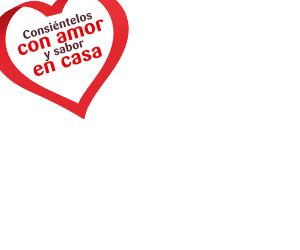
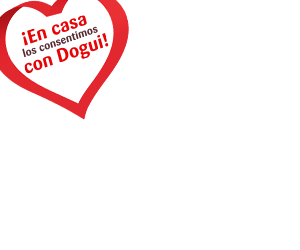
ok

Changed region(s): [[0.06, 0.056, 0.36, 0.308]]

diff --git a/Dogui/EnCASA/300x600/index.html b/Dogui/EnCASA/300x600/index.html
@@ -1,0 +1,37 @@
+<!DOCTYPE html>
[1 lines of base64/hex data omitted]
+  <meta charset="utf-8">
+  <meta name="viewport" content="width=device-width,minimum-scale=1">
+  <meta name="generator" content="Google Web Designer 8.0.0.0323">
+  <meta name="environment" content="gwd-googleads"><meta name="ad.size" content="width=300,height=600">
+  <script async="" src="https://cdn.ampproject.org/amp4ads-v0.js"></script>
+  <style amp4ads-boilerplate="">body{visibility:hidden}</style>
+  <style amp-custom="">html,body{width:100%;height:100%;margin:0px}p,h1,h2,h3{margin:0px}.gwd-page-container{position:relative;width:100%;height:100%}.gwd-page-content{background-color:transparent;transform:matrix3d(1, 0, 0, 0, 0, 1, 0, 0, 0, 0, 1, 0, 0, 0, 0, 1);-webkit-transform:matrix3d(1, 0, 0, 0, 0, 1, 0, 0, 0, 0, 1, 0, 0, 0, 0, 1);-moz-transform:matrix3d(1, 0, 0, 0, 0, 1, 0, 0, 0, 0, 1, 0, 0, 0, 0, 1);perspective:1400px;-webkit-perspective:1400px;-moz-perspective:1400px;transform-style:preserve-3d;-webkit-transform-style:preserve-3d;-moz-transform-style:preserve-3d;position:absolute}.gwd-page-container-wrapper{width:300px;height:600px}.gwd-page-wrapper{background-color:#fff;position:absolute;top:0px;left:0px;transform:translateZ(0);-webkit-transform:translateZ(0);-moz-transform:translateZ(0);width:300px;height:600px}.gwd-page-size{width:300px;height:600px}#pagedeck>.amp-carousel-button-prev,#pagedeck>.amp-carousel-button-next{display:none}.gwd-amp-img-p45y{position:absolute;width:300px;height:600px;left:50%;transform-style:preserve-3d;-webkit-transform-style:preserve-3d;-moz-transform-style:preserve-3d;top:50%;transform:translate3d(-150px, -300px, 0);-webkit-transform:translate3d(-150px, -300px, 0);-moz-transform:translate3d(-150px, -300px, 0);opacity:0}#page1.gwd-play-animation .gwd-gen-zoblgwdanimation{animation:.5s linear 0s 1 normal forwards gwd-gen-zoblgwdanimation_gwd-keyframes;-webkit-animation:.5s linear 0s 1 normal forwards gwd-gen-zoblgwdanimation_gwd-keyframes;-moz-animation:.5s linear 0s 1 normal forwards gwd-gen-zoblgwdanimation_gwd-keyframes}.gwd-amp-img-1geb{position:absolute;width:300px;height:600px;left:50%;transform-style:preserve-3d;-webkit-transform-style:preserve-3d;-moz-transform-style:preserve-3d;top:50%;transform-origin:0px 70px 0px;-webkit-transform-origin:0px 70px 0px;-moz-transform-origin:0px 70px 0px;transform:translate3d(-220px, -300px, 0) rotateZ(-67deg);-webkit-transform:translate3d(-220px, -300px, 0) rotateZ(-67deg);-moz-transform:translate3d(-220px, -300px, 0) rotateZ(-67deg);opacity:0}#page1.gwd-play-animation .gwd-gen-xf2jgwdanimation{animation:.8s linear 0s 1 normal forwards gwd-gen-xf2jgwdanimation_gwd-keyframes;-webkit-animation:.8s linear 0s 1 normal forwards gwd-gen-xf2jgwdanimation_gwd-keyframes;-moz-animation:.8s linear 0s 1 normal forwards gwd-gen-xf2jgwdanimation_gwd-keyframes}.gwd-amp-img-a3fp{position:absolute;width:300px;height:600px;top:50%;transform-style:preserve-3d;-webkit-transform-style:preserve-3d;-moz-transform-style:preserve-3d;left:50%;transform:translate3d(-150px, -210px, 0);-webkit-transform:translate3d(-150px, -210px, 0);-moz-transform:translate3d(-150px, -210px, 0);opacity:0}.gwd-amp-img-h5yt{position:absolute;width:300px;height:600px;top:50%;transform-style:preserve-3d;-webkit-transform-style:preserve-3d;-moz-transform-style:preserve-3d;left:50%;transform:translate3d(-60px, -300px, 0);-webkit-transform:translate3d(-60px, -300px, 0);-moz-transform:translate3d(-60px, -300px, 0);opacity:0}.gwd-amp-img-1nsm{position:absolute;width:300px;height:600px;top:50%;transform-style:preserve-3d;-webkit-transform-style:preserve-3d;-moz-transform-style:preserve-3d;left:50%;transform:translate3d(-260px, -300px, 0);-webkit-transform:translate3d(-260px, -300px, 0);-moz-transform:translate3d(-260px, -300px, 0);opacity:0}#page1.gwd-play-animation .gwd-gen-1amwgwdanimation{animation:1.5s linear 0s 1 normal forwards gwd-gen-1amwgwdanimation_gwd-keyframes;-webkit-animation:1.5s linear 0s 1 normal forwards gwd-gen-1amwgwdanimation_gwd-keyframes;-moz-animation:1.5s linear 0s 1 normal forwards gwd-gen-1amwgwdanimation_gwd-keyframes}#page1.gwd-play-animation .gwd-gen-fnz0gwdanimation{animation:1.4s linear 0s 1 normal forwards gwd-gen-fnz0gwdanimation_gwd-keyframes;-webkit-animation:1.4s linear 0s 1 normal forwards gwd-gen-fnz0gwdanimation_gwd-keyframes;-moz-animation:1.4s linear 0s 1 normal forwards gwd-gen-fnz0gwdanimation_gwd-keyframes}#page1.gwd-play-animation .gwd-gen-78hygwdanimation{animation:1.1s linear 0s 1 normal forwards gwd-gen-78hygwdanimation_gwd-keyframes;-webkit-animation:1.1s linear 0s 1 normal forwards gwd-gen-78hygwdanimation_gwd-keyframes;-moz-animation:1.1s linear 0s 1 normal forwards gwd-gen-78hygwdanimation_gwd-keyframes}#page1.label-1 .gwd-gen-zoblgwdanimation{animation:.5s linear 0s 1 normal forwards gwd-gen-zoblgwdanimation_gwd-keyframes_label-1;-webkit-animation:.5s linear 0s 1 normal forwards gwd-gen-zoblgwdanimation_gwd-keyframes_label-1;-moz-animation:.5s linear 0s 1 normal forwards gwd-gen-zoblgwdanimation_gwd-keyframes_label-1}#page1.label-1 .gwd-gen-xf2jgwdanimation{animation:.8s linear 0s 1 normal forwards gwd-gen-xf2jgwdanimation_gwd-keyframes_label-1;-webkit-animation:.8s linear 0s 1 normal forwards gwd-gen-xf2jgwdanimation_gwd-keyframes_label-1;-moz-animation:.8s linear 0s 1 normal forwards gwd-gen-xf2jgwdanimation_gwd-keyframes_label-1}#page1.label-1 .gwd-gen-78hygwdanimation{animation:1.1s linear 0s 1 normal forwards gwd-gen-78hygwdanimation_gwd-keyframes_label-1;-webkit-animation:1.1s linear 0s 1 normal forwards gwd-gen-78hygwdanimation_gwd-keyframes_label-1;-moz-animation:1.1s linear 0s 1 normal forwards gwd-gen-78hygwdanimation_gwd-keyframes_label-1}#page1.label-1 .gwd-gen-fnz0gwdanimation{animation:1.4s linear 0s 1 normal forwards gwd-gen-fnz0gwdanimation_gwd-keyframes_label-1;-webkit-animation:1.4s linear 0s 1 normal forwards gwd-gen-fnz0gwdanimation_gwd-keyframes_label-1;-moz-animation:1.4s linear 0s 1 normal forwards gwd-gen-fnz0gwdanimation_gwd-keyframes_label-1}#page1.label-1 .gwd-gen-1amwgwdanimation{animation:1.5s linear 0s 1 normal forwards gwd-gen-1amwgwdanimation_gwd-keyframes_label-1;-webkit-animation:1.5s linear 0s 1 normal forwards gwd-gen-1amwgwdanimation_gwd-keyframes_label-1;-moz-animation:1.5s linear 0s 1 normal forwards gwd-gen-1amwgwdanimation_gwd-keyframes_label-1}#page1.gwd-play-animation .event-1-animation{animation:6s linear 0s 1 normal forwards gwd-empty-animation;-webkit-animation:6s linear 0s 1 normal forwards gwd-empty-animation;-moz-animation:6s linear 0s 1 normal forwards gwd-empty-animation}#page1.label-1 .event-1-animation{animation:6s linear 0s 1 normal forwards gwd-empty-animation_label-1;-webkit-animation:6s linear 0s 1 normal forwards gwd-empty-animation_label-1;-moz-animation:6s linear 0s 1 normal forwards gwd-empty-animation_label-1}</style>
+  <script data-source="https://cdn.ampproject.org/v0/amp-gwd-animation-0.1.js" async="" custom-element="amp-gwd-animation" src="https://cdn.ampproject.org/v0/amp-gwd-animation-0.1.js"></script>
+  <script data-source="https://cdn.ampproject.org/v0/amp-ad-exit-0.1.js" async="" custom-element="amp-ad-exit" src="https://cdn.ampproject.org/v0/amp-ad-exit-0.1.js"></script>
+  <script data-source="https://cdn.ampproject.org/v0/amp-carousel-0.1.js" async="" custom-element="amp-carousel" src="https://cdn.ampproject.org/v0/amp-carousel-0.1.js"></script>
+</head>
+
+<body class="document-body">
+  <div class="gwd-page-container-wrapper">
+    <amp-carousel class="gwd-page-container" id="pagedeck" layout="fill" type="slides">
+      <div id="page1" class="gwd-page-wrapper page1-content" data-gwd-width="300px" data-gwd-height="600px" role="button" tabindex="-1">
+        <div class="gwd-page-content gwd-page-size">
+          <amp-img id="1" src="1.jpg" class="gwd-amp-img-p45y gwd-gen-zoblgwdanimation" width="300px" height="600px"></amp-img>
+          <amp-img id="2" src="2.png" class="gwd-amp-img-1geb gwd-gen-xf2jgwdanimation" width="300px" height="600px"></amp-img>
+          <amp-img id="3" src="3.png" class="gwd-amp-img-a3fp gwd-gen-78hygwdanimation" width="300px" height="600px"></amp-img>
+          <amp-img id="4" src="4.png" class="gwd-amp-img-h5yt gwd-gen-fnz0gwdanimation" width="300px" height="600px"></amp-img>
+          <amp-img id="5" src="5.png" class="gwd-amp-img-1nsm gwd-gen-1amwgwdanimation" width="300px" height="600px"></amp-img>
+          <div class="gwd-animation-event event-1-animation" data-event-name="event-1" data-event-time="6000"></div>
+        </div>
+      </div>
+    </amp-carousel>
+  </div>
+  <amp-gwd-animation id="gwdAnim" timeline-event-prefix="tl_" layout="nodisplay" on="tl_event-1:gwdAnim.gotoAndPlay(id=page1,label=label-1)"></amp-gwd-animation>
+  <amp-ad-exit id="exit-api">
+    <script type="application/json">{ "targets": {} }
+    </script>
+  </amp-ad-exit>
+
+
+<style amp-keyframes="">@keyframes gwd-gen-zoblgwdanimation_gwd-keyframes{0%{opacity:0;animation-timing-function:linear;-webkit-animation-timing-function:linear;-moz-animation-timing-function:linear}100%{opacity:1;animation-timing-function:linear;-webkit-animation-timing-function:linear;-moz-animation-timing-function:linear}}@-webkit-keyframes gwd-gen-zoblgwdanimation_gwd-keyframes{0%{opacity:0;-webkit-animation-timing-function:linear}100%{opacity:1;-webkit-animation-timing-function:linear}}@-moz-keyframes gwd-gen-zoblgwdanimation_gwd-keyframes{0%{opacity:0;-moz-animation-timing-function:linear}100%{opacity:1;-moz-animation-timing-function:linear}}@keyframes gwd-gen-xf2jgwdanimation_gwd-keyframes{0%{opacity:0;transform:translate3d(-220px, -300px, 0) rotateZ(-67deg);-webkit-transform:translate3d(-220px, -300px, 0) rotateZ(-67deg);-moz-transform:translate3d(-220px, -300px, 0) rotateZ(-67deg);animation-timing-function:linear;-webkit-animation-timing-function:linear;-moz-animation-timing-function:linear}37.5%{opacity:0;transform:translate3d(-220px, -300px, 0) rotateZ(-67deg);-webkit-transform:translate3d(-220px, -300px, 0) rotateZ(-67deg);-moz-transform:translate3d(-220px, -300px, 0) rotateZ(-67deg);animation-timing-function:ease;-webkit-animation-timing-function:ease;-moz-animation-timing-function:ease}100%{opacity:1;transform:translate3d(-150px, -300px, 0) rotateZ(0deg);-webkit-transform:translate3d(-150px, -300px, 0) rotateZ(0deg);-moz-transform:translate3d(-150px, -300px, 0) rotateZ(0deg);animation-timing-function:linear;-webkit-animation-timing-function:linear;-moz-animation-timing-function:linear}}@-webkit-keyframes gwd-gen-xf2jgwdanimation_gwd-keyframes{0%{opacity:0;-webkit-transform:translate3d(-220px, -300px, 0) rotateZ(-67deg);-webkit-animation-timing-function:linear}37.5%{opacity:0;-webkit-transform:translate3d(-220px, -300px, 0) rotateZ(-67deg);-webkit-animation-timing-function:ease}100%{opacity:1;-webkit-transform:translate3d(-150px, -300px, 0) rotateZ(0deg);-webkit-animation-timing-function:linear}}@-moz-keyframes gwd-gen-xf2jgwdanimation_gwd-keyframes{0%{opacity:0;-moz-transform:translate3d(-220px, -300px, 0) rotateZ(-67deg);-moz-animation-timing-function:linear}37.5%{opacity:0;-moz-transform:translate3d(-220px, -300px, 0) rotateZ(-67deg);-moz-animation-timing-function:ease}100%{opacity:1;-moz-transform:translate3d(-150px, -300px, 0) rotateZ(0deg);-moz-animation-timing-function:linear}}@keyframes gwd-gen-1amwgwdanimation_gwd-keyframes{0%{opacity:0;transform:translate3d(-260px, -300px, 0);-webkit-transform:translate3d(-260px, -300px, 0);-moz-transform:translate3d(-260px, -300px, 0);animation-timing-function:linear;-webkit-animation-timing-function:linear;-moz-animation-timing-function:linear}66.6667%{opacity:0;transform:translate3d(-260px, -300px, 0);-webkit-transform:translate3d(-260px, -300px, 0);-moz-transform:translate3d(-260px, -300px, 0);animation-timing-function:ease;-webkit-animation-timing-function:ease;-moz-animation-timing-function:ease}100%{opacity:1;transform:translate3d(-150px, -300px, 0);-webkit-transform:translate3d(-150px, -300px, 0);-moz-transform:translate3d(-150px, -300px, 0);animation-timing-function:linear;-webkit-animation-timing-function:linear;-moz-animation-timing-function:linear}}@-webkit-keyframes gwd-gen-1amwgwdanimation_gwd-keyframes{0%{opacity:0;-webkit-transform:translate3d(-260px, -300px, 0);-webkit-animation-timing-function:linear}66.6667%{opacity:0;-webkit-transform:translate3d(-260px, -300px, 0);-webkit-animation-timing-function:ease}100%{opacity:1;-webkit-transform:translate3d(-150px, -300px, 0);-webkit-animation-timing-function:linear}}@-moz-keyframes gwd-gen-1amwgwdanimation_gwd-keyframes{0%{opacity:0;-moz-transform:translate3d(-260px, -300px, 0);-moz-animation-timing-function:linear}66.6667%{opacity:0;-moz-transform:translate3d(-260px, -300px, 0);-moz-animation-timing-function:ease}100%{opacity:1;-moz-transform:translate3d(-150px, -300px, 0);-moz-animation-timing-function:linear}}@keyframes gwd-gen-fnz0gwdanimation_gwd-keyframes{0%{opacity:0;transform:translate3d(-60px, -300px, 0);-webkit-transform:translate3d(-60px, -300px, 0);-moz-transform:translate3d(-60px, -300px, 0);animation-timing-function:linear;-webkit-animation-timing-function:linear;-moz-animation-timing-function:linear}64.2857%{opacity:0;transform:translate3d(-60px, -300px, 0);-webkit-transform:translate3d(-60px, -300px, 0);-moz-transform:translate3d(-60px, -300px, 0);animation-timing-function:ease;-webkit-animation-timing-function:ease;-moz-animation-timing-function:ease}100%{opacity:1;transform:translate3d(-150px, -300px, 0);-webkit-transform:translate3d(-150px, -300px, 0);-moz-transform:translate3d(-150px, -300px, 0);animation-timing-function:linear;-webkit-animation-timing-function:linear;-moz-animation-timing-function:linear}}@-webkit-keyframes gwd-gen-fnz0gwdanimation_gwd-keyframes{0%{opacity:0;-webkit-transform:translate3d(-60px, -300px, 0);-webkit-animation-timing-function:linear}64.2857%{opacity:0;-webkit-transform:translate3d(-60px, -300px, 0);-webkit-animation-timing-function:ease}100%{opacity:1;-webkit-transform:translate3d(-150px, -300px, 0);-webkit-animation-timing-function:linear}}@-moz-keyframes gwd-gen-fnz0gwdanimation_gwd-keyframes{0%{opacity:0;-moz-transform:translate3d(-60px, -300px, 0);-moz-animation-timing-function:linear}64.2857%{opacity:0;-moz-transform:translate3d(-60px, -300px, 0);-moz-animation-timing-function:ease}100%{opacity:1;-moz-transform:translate3d(-150px, -300px, 0);-moz-animation-timing-function:linear}}@keyframes gwd-gen-78hygwdanimation_gwd-keyframes{0%{opacity:0;transform:translate3d(-150px, -210px, 0);-webkit-transform:translate3d(-150px, -210px, 0);-moz-transform:translate3d(-150px, -210px, 0);animation-timing-function:linear;-webkit-animation-timing-function:linear;-moz-animation-timing-function:linear}54.5455%{opacity:0;transform:translate3d(-150px, -210px, 0);-webkit-transform:translate3d(-150px, -210px, 0);-moz-transform:translate3d(-150px, -210px, 0);animation-timing-function:ease;-webkit-animation-timing-function:ease;-moz-animation-timing-function:ease}100%{opacity:1;transform:translate3d(-150px, -300px, 0);-webkit-transform:translate3d(-150px, -300px, 0);-moz-transform:translate3d(-150px, -300px, 0);animation-timing-function:linear;-webkit-animation-timing-function:linear;-moz-animation-timing-function:linear}}@-webkit-keyframes gwd-gen-78hygwdanimation_gwd-keyframes{0%{opacity:0;-webkit-transform:translate3d(-150px, -210px, 0);-webkit-animation-timing-function:linear}54.5455%{opacity:0;-webkit-transform:translate3d(-150px, -210px, 0);-webkit-animation-timing-function:ease}100%{opacity:1;-webkit-transform:translate3d(-150px, -300px, 0);-webkit-animation-timing-function:linear}}@-moz-keyframes gwd-gen-78hygwdanimation_gwd-keyframes{0%{opacity:0;-moz-transform:translate3d(-150px, -210px, 0);-moz-animation-timing-function:linear}54.5455%{opacity:0;-moz-transform:translate3d(-150px, -210px, 0);-moz-animation-timing-function:ease}100%{opacity:1;-moz-transform:translate3d(-150px, -300px, 0);-moz-animation-timing-function:linear}}@keyframes gwd-gen-zoblgwdanimation_gwd-keyframes_label-1{0%{opacity:0;animation-timing-function:linear;-webkit-animation-timing-function:linear;-moz-animation-timing-function:linear}100%{opacity:1;animation-timing-function:linear;-webkit-animation-timing-function:linear;-moz-animation-timing-function:linear}}@-webkit-keyframes gwd-gen-zoblgwdanimation_gwd-keyframes_label-1{0%{opacity:0;-webkit-animation-timing-function:linear}100%{opacity:1;-webkit-animation-timing-function:linear}}@-moz-keyframes gwd-gen-zoblgwdanimation_gwd-keyframes_label-1{0%{opacity:0;-moz-animation-timing-function:linear}100%{opacity:1;-moz-animation-timing-function:linear}}@keyframes gwd-gen-xf2jgwdanimation_gwd-keyframes_label-1{0%{opacity:0;transform:translate3d(-220px, -300px, 0) rotateZ(-67deg);-webkit-transform:translate3d(-220px, -300px, 0) rotateZ(-67deg);-moz-transform:translate3d(-220px, -300px, 0) rotateZ(-67deg);animation-timing-function:linear;-webkit-animation-timing-function:linear;-moz-animation-timing-function:linear}37.5%{opacity:0;transform:translate3d(-220px, -300px, 0) rotateZ(-67deg);-webkit-transform:translate3d(-220px, -300px, 0) rotateZ(-67deg);-moz-transform:translate3d(-220px, -300px, 0) rotateZ(-67deg);animation-timing-function:ease;-webkit-animation-timing-function:ease;-moz-animation-timing-function:ease}100%{opacity:1;transform:translate3d(-150px, -300px, 0) rotateZ(0deg);-webkit-transform:translate3d(-150px, -300px, 0) rotateZ(0deg);-moz-transform:translate3d(-150px, -300px, 0) rotateZ(0deg);animation-timing-function:linear;-webkit-animation-timing-function:linear;-moz-animation-timing-function:linear}}@-webkit-keyframes gwd-gen-xf2jgwdanimation_gwd-keyframes_label-1{0%{opacity:0;-webkit-transform:translate3d(-220px, -300px, 0) rotateZ(-67deg);-webkit-animation-timing-function:linear}37.5%{opacity:0;-webkit-transform:translate3d(-220px, -300px, 0) rotateZ(-67deg);-webkit-animation-timing-function:ease}100%{opacity:1;-webkit-transform:translate3d(-150px, -300px, 0) rotateZ(0deg);-webkit-animation-timing-function:linear}}@-moz-keyframes gwd-gen-xf2jgwdanimation_gwd-keyframes_label-1{0%{opacity:0;-moz-transform:translate3d(-220px, -300px, 0) rotateZ(-67deg);-moz-animation-timing-function:linear}37.5%{opacity:0;-moz-transform:translate3d(-220px, -300px, 0) rotateZ(-67deg);-moz-animation-timing-function:ease}100%{opacity:1;-moz-transform:translate3d(-150px, -300px, 0) rotateZ(0deg);-moz-animation-timing-function:linear}}@keyframes gwd-gen-78hygwdanimation_gwd-keyframes_label-1{0%{opacity:0;transform:translate3d(-150px, -210px, 0);-webkit-transform:translate3d(-150px, -210px, 0);-moz-transform:translate3d(-150px, -210px, 0);animation-timing-function:linear;-webkit-animation-timing-function:linear;-moz-animation-timing-function:linear}54.5455%{opacity:0;transform:translate3d(-150px, -210px, 0);-webkit-transform:translate3d(-150px, -210px, 0);-moz-transform:translate3d(-150px, -210px, 0);animation-timing-function:ease;-webkit-animation-timing-function:ease;-moz-animation-timing-function:ease}100%{opacity:1;transform:translate3d(-150px, -300px, 0);-webkit-transform:translate3d(-150px, -300px, 0);-moz-transform:translate3d(-150px, -300px, 0);animation-timing-function:linear;-webkit-animation-timing-function:linear;-moz-animation-timing-function:linear}}@-webkit-keyframes gwd-gen-78hygwdanimation_gwd-keyframes_label-1{0%{opacity:0;-webkit-transform:translate3d(-150px, -210px, 0);-webkit-animation-timing-function:linear}54.5455%{opacity:0;-webkit-transform:translate3d(-150px, -210px, 0);-webkit-animation-timing-function:ease}100%{opacity:1;-webkit-transform:translate3d(-150px, -300px, 0);-webkit-animation-timing-function:linear}}@-moz-keyframes gwd-gen-78hygwdanimation_gwd-keyframes_label-1{0%{opacity:0;-moz-transform:translate3d(-150px, -210px, 0);-moz-animation-timing-function:linear}54.5455%{opacity:0;-moz-transform:translate3d(-150px, -210px, 0);-moz-animation-timing-function:ease}100%{opacity:1;-moz-transform:translate3d(-150px, -300px, 0);-moz-animation-timing-function:linear}}@keyframes gwd-gen-fnz0gwdanimation_gwd-keyframes_label-1{0%{opacity:0;transform:translate3d(-60px, -300px, 0);-webkit-transform:translate3d(-60px, -300px, 0);-moz-transform:translate3d(-60px, -300px, 0);animation-timing-function:linear;-webkit-animation-timing-function:linear;-moz-animation-timing-function:linear}64.2857%{opacity:0;transform:translate3d(-60px, -300px, 0);-webkit-transform:translate3d(-60px, -300px, 0);-moz-transform:translate3d(-60px, -300px, 0);animation-timing-function:ease;-webkit-animation-timing-function:ease;-moz-animation-timing-function:ease}100%{opacity:1;transform:translate3d(-150px, -300px, 0);-webkit-transform:translate3d(-150px, -300px, 0);-moz-transform:translate3d(-150px, -300px, 0);animation-timing-function:linear;-webkit-animation-timing-function:linear;-moz-animation-timing-function:linear}}@-webkit-keyframes gwd-gen-fnz0gwdanimation_gwd-keyframes_label-1{0%{opacity:0;-webkit-transform:translate3d(-60px, -300px, 0);-webkit-animation-timing-function:linear}64.2857%{opacity:0;-webkit-transform:translate3d(-60px, -300px, 0);-webkit-animation-timing-function:ease}100%{opacity:1;-webkit-transform:translate3d(-150px, -300px, 0);-webkit-animation-timing-function:linear}}@-moz-keyframes gwd-gen-fnz0gwdanimation_gwd-keyframes_label-1{0%{opacity:0;-moz-transform:translate3d(-60px, -300px, 0);-moz-animation-timing-function:linear}64.2857%{opacity:0;-moz-transform:translate3d(-60px, -300px, 0);-moz-animation-timing-function:ease}100%{opacity:1;-moz-transform:translate3d(-150px, -300px, 0);-moz-animation-timing-function:linear}}@keyframes gwd-gen-1amwgwdanimation_gwd-keyframes_label-1{0%{opacity:0;transform:translate3d(-260px, -300px, 0);-webkit-transform:translate3d(-260px, -300px, 0);-moz-transform:translate3d(-260px, -300px, 0);animation-timing-function:linear;-webkit-animation-timing-function:linear;-moz-animation-timing-function:linear}66.6667%{opacity:0;transform:translate3d(-260px, -300px, 0);-webkit-transform:translate3d(-260px, -300px, 0);-moz-transform:translate3d(-260px, -300px, 0);animation-timing-function:ease;-webkit-animation-timing-function:ease;-moz-animation-timing-function:ease}100%{opacity:1;transform:translate3d(-150px, -300px, 0);-webkit-transform:translate3d(-150px, -300px, 0);-moz-transform:translate3d(-150px, -300px, 0);animation-timing-function:linear;-webkit-animation-timing-function:linear;-moz-animation-timing-function:linear}}@-webkit-keyframes gwd-gen-1amwgwdanimation_gwd-keyframes_label-1{0%{opacity:0;-webkit-transform:translate3d(-260px, -300px, 0);-webkit-animation-timing-function:linear}66.6667%{opacity:0;-webkit-transform:translate3d(-260px, -300px, 0);-webkit-animation-timing-function:ease}100%{opacity:1;-webkit-transform:translate3d(-150px, -300px, 0);-webkit-animation-timing-function:linear}}@-moz-keyframes gwd-gen-1amwgwdanimation_gwd-keyframes_label-1{0%{opacity:0;-moz-transform:translate3d(-260px, -300px, 0);-moz-animation-timing-function:linear}66.6667%{opacity:0;-moz-transform:translate3d(-260px, -300px, 0);-moz-animation-timing-function:ease}100%{opacity:1;-moz-transform:translate3d(-150px, -300px, 0);-moz-animation-timing-function:linear}}@keyframes gwd-empty-animation{0%{opacity:0.001}100%{opacity:0}}@-webkit-keyframes gwd-empty-animation{0%{opacity:0.001}100%{opacity:0}}@-moz-keyframes gwd-empty-animation{0%{opacity:0.001}100%{opacity:0}}@keyframes gwd-empty-animation_label-1{0%{opacity:0.001}100%{opacity:0}}@-webkit-keyframes gwd-empty-animation_label-1{0%{opacity:0.001}100%{opacity:0}}@-moz-keyframes gwd-empty-animation_label-1{0%{opacity:0.001}100%{opacity:0}}</style></body></html>

diff --git a/Dogui/EnCASA/160x600/index.html b/Dogui/EnCASA/160x600/index.html
@@ -1,0 +1,36 @@
+<!DOCTYPE html>
[1 lines of base64/hex data omitted]
+  <meta charset="utf-8">
+  <meta name="viewport" content="width=device-width,minimum-scale=1">
+  <meta name="generator" content="Google Web Designer 8.0.0.0323">
+  <meta name="environment" content="gwd-googleads"><meta name="ad.size" content="width=160,height=600">
+  <script async="" src="https://cdn.ampproject.org/amp4ads-v0.js"></script>
+  <style amp4ads-boilerplate="">body{visibility:hidden}</style>
+  <style amp-custom="">html,body{width:100%;height:100%;margin:0px}p,h1,h2,h3{margin:0px}.gwd-page-container{position:relative;width:100%;height:100%}.gwd-page-content{background-color:transparent;transform:matrix3d(1, 0, 0, 0, 0, 1, 0, 0, 0, 0, 1, 0, 0, 0, 0, 1);-webkit-transform:matrix3d(1, 0, 0, 0, 0, 1, 0, 0, 0, 0, 1, 0, 0, 0, 0, 1);-moz-transform:matrix3d(1, 0, 0, 0, 0, 1, 0, 0, 0, 0, 1, 0, 0, 0, 0, 1);perspective:1400px;-webkit-perspective:1400px;-moz-perspective:1400px;transform-style:preserve-3d;-webkit-transform-style:preserve-3d;-moz-transform-style:preserve-3d;position:absolute}.gwd-page-container-wrapper{width:160px;height:600px}.gwd-page-wrapper{background-color:#fff;position:absolute;top:0px;left:0px;transform:translateZ(0);-webkit-transform:translateZ(0);-moz-transform:translateZ(0);width:160px;height:600px}.gwd-page-size{width:160px;height:600px}#pagedeck>.amp-carousel-button-prev,#pagedeck>.amp-carousel-button-next{display:none}.gwd-amp-img-1vum{position:absolute;width:160px;height:600px;left:50%;transform-style:preserve-3d;-webkit-transform-style:preserve-3d;-moz-transform-style:preserve-3d;top:50%;transform:translate3d(-80px, -300px, 0);-webkit-transform:translate3d(-80px, -300px, 0);-moz-transform:translate3d(-80px, -300px, 0);opacity:0}.gwd-amp-img-12uo{position:absolute;width:160px;height:600px;left:50%;transform-style:preserve-3d;-webkit-transform-style:preserve-3d;-moz-transform-style:preserve-3d;top:50%;transform-origin:0px 55px 0px;-webkit-transform-origin:0px 55px 0px;-moz-transform-origin:0px 55px 0px;transform:translate3d(-150px, -300px, 0) rotateZ(-46deg);-webkit-transform:translate3d(-150px, -300px, 0) rotateZ(-46deg);-moz-transform:translate3d(-150px, -300px, 0) rotateZ(-46deg);opacity:0}.gwd-amp-img-1iyn{position:absolute;width:160px;height:600px;left:50%;transform-style:preserve-3d;-webkit-transform-style:preserve-3d;-moz-transform-style:preserve-3d;top:50%;transform:translate3d(-80px, -230px, 0);-webkit-transform:translate3d(-80px, -230px, 0);-moz-transform:translate3d(-80px, -230px, 0);opacity:0}.gwd-amp-img-148n{position:absolute;width:160px;height:600px;left:50%;transform-style:preserve-3d;-webkit-transform-style:preserve-3d;-moz-transform-style:preserve-3d;top:50%;transform:translate3d(-170px, -300px, 0);-webkit-transform:translate3d(-170px, -300px, 0);-moz-transform:translate3d(-170px, -300px, 0);opacity:0}#page1.gwd-play-animation .gwd-gen-6yexgwdanimation{animation:.5s linear 0s 1 normal forwards gwd-gen-6yexgwdanimation_gwd-keyframes;-webkit-animation:.5s linear 0s 1 normal forwards gwd-gen-6yexgwdanimation_gwd-keyframes;-moz-animation:.5s linear 0s 1 normal forwards gwd-gen-6yexgwdanimation_gwd-keyframes}#page1.gwd-play-animation .gwd-gen-1rifgwdanimation{animation:.8s linear 0s 1 normal forwards gwd-gen-1rifgwdanimation_gwd-keyframes;-webkit-animation:.8s linear 0s 1 normal forwards gwd-gen-1rifgwdanimation_gwd-keyframes;-moz-animation:.8s linear 0s 1 normal forwards gwd-gen-1rifgwdanimation_gwd-keyframes}#page1.gwd-play-animation .gwd-gen-kjv2gwdanimation{animation:1.2s linear 0s 1 normal forwards gwd-gen-kjv2gwdanimation_gwd-keyframes;-webkit-animation:1.2s linear 0s 1 normal forwards gwd-gen-kjv2gwdanimation_gwd-keyframes;-moz-animation:1.2s linear 0s 1 normal forwards gwd-gen-kjv2gwdanimation_gwd-keyframes}#page1.gwd-play-animation .gwd-gen-xwkegwdanimation{animation:1.1s linear 0s 1 normal forwards gwd-gen-xwkegwdanimation_gwd-keyframes;-webkit-animation:1.1s linear 0s 1 normal forwards gwd-gen-xwkegwdanimation_gwd-keyframes;-moz-animation:1.1s linear 0s 1 normal forwards gwd-gen-xwkegwdanimation_gwd-keyframes}#page1.label-1 .gwd-gen-6yexgwdanimation{animation:.5s linear 0s 1 normal forwards gwd-gen-6yexgwdanimation_gwd-keyframes_label-1;-webkit-animation:.5s linear 0s 1 normal forwards gwd-gen-6yexgwdanimation_gwd-keyframes_label-1;-moz-animation:.5s linear 0s 1 normal forwards gwd-gen-6yexgwdanimation_gwd-keyframes_label-1}#page1.label-1 .gwd-gen-1rifgwdanimation{animation:.8s linear 0s 1 normal forwards gwd-gen-1rifgwdanimation_gwd-keyframes_label-1;-webkit-animation:.8s linear 0s 1 normal forwards gwd-gen-1rifgwdanimation_gwd-keyframes_label-1;-moz-animation:.8s linear 0s 1 normal forwards gwd-gen-1rifgwdanimation_gwd-keyframes_label-1}#page1.label-1 .gwd-gen-xwkegwdanimation{animation:1.1s linear 0s 1 normal forwards gwd-gen-xwkegwdanimation_gwd-keyframes_label-1;-webkit-animation:1.1s linear 0s 1 normal forwards gwd-gen-xwkegwdanimation_gwd-keyframes_label-1;-moz-animation:1.1s linear 0s 1 normal forwards gwd-gen-xwkegwdanimation_gwd-keyframes_label-1}#page1.label-1 .gwd-gen-kjv2gwdanimation{animation:1.2s linear 0s 1 normal forwards gwd-gen-kjv2gwdanimation_gwd-keyframes_label-1;-webkit-animation:1.2s linear 0s 1 normal forwards gwd-gen-kjv2gwdanimation_gwd-keyframes_label-1;-moz-animation:1.2s linear 0s 1 normal forwards gwd-gen-kjv2gwdanimation_gwd-keyframes_label-1}#page1.gwd-play-animation .event-1-animation{animation:6s linear 0s 1 normal forwards gwd-empty-animation;-webkit-animation:6s linear 0s 1 normal forwards gwd-empty-animation;-moz-animation:6s linear 0s 1 normal forwards gwd-empty-animation}#page1.label-1 .event-1-animation{animation:6s linear 0s 1 normal forwards gwd-empty-animation_label-1;-webkit-animation:6s linear 0s 1 normal forwards gwd-empty-animation_label-1;-moz-animation:6s linear 0s 1 normal forwards gwd-empty-animation_label-1}</style>
+  <script data-source="https://cdn.ampproject.org/v0/amp-gwd-animation-0.1.js" async="" custom-element="amp-gwd-animation" src="https://cdn.ampproject.org/v0/amp-gwd-animation-0.1.js"></script>
+  <script data-source="https://cdn.ampproject.org/v0/amp-ad-exit-0.1.js" async="" custom-element="amp-ad-exit" src="https://cdn.ampproject.org/v0/amp-ad-exit-0.1.js"></script>
+  <script data-source="https://cdn.ampproject.org/v0/amp-carousel-0.1.js" async="" custom-element="amp-carousel" src="https://cdn.ampproject.org/v0/amp-carousel-0.1.js"></script>
+</head>
+
+<body class="document-body">
+  <div class="gwd-page-container-wrapper">
+    <amp-carousel class="gwd-page-container" id="pagedeck" layout="fill" type="slides">
+      <div id="page1" class="gwd-page-wrapper page1-content" data-gwd-width="160px" data-gwd-height="600px" role="button" tabindex="-1">
+        <div class="gwd-page-content gwd-page-size">
+          <amp-img id="1" src="1.jpg" class="gwd-amp-img-1vum gwd-gen-6yexgwdanimation" width="160px" height="600px"></amp-img>
+          <amp-img id="2" src="2.png" class="gwd-amp-img-12uo gwd-gen-1rifgwdanimation" width="160px" height="600px"></amp-img>
+          <amp-img id="3" src="3.png" class="gwd-amp-img-1iyn gwd-gen-xwkegwdanimation" width="160px" height="600px"></amp-img>
+          <amp-img id="4" src="4.png" class="gwd-amp-img-148n gwd-gen-kjv2gwdanimation" width="160px" height="600px"></amp-img>
+          <div class="gwd-animation-event event-1-animation" data-event-name="event-1" data-event-time="6000"></div>
+        </div>
+      </div>
+    </amp-carousel>
+  </div>
+  <amp-gwd-animation id="gwdAnim" timeline-event-prefix="tl_" layout="nodisplay" on="tl_event-1:gwdAnim.gotoAndPlay(id=page1,label=label-1)"></amp-gwd-animation>
+  <amp-ad-exit id="exit-api">
+    <script type="application/json">{ "targets": {} }
+    </script>
+  </amp-ad-exit>
+
+
+<style amp-keyframes="">@keyframes gwd-gen-6yexgwdanimation_gwd-keyframes{0%{opacity:0;animation-timing-function:linear;-webkit-animation-timing-function:linear;-moz-animation-timing-function:linear}100%{opacity:1;animation-timing-function:linear;-webkit-animation-timing-function:linear;-moz-animation-timing-function:linear}}@-webkit-keyframes gwd-gen-6yexgwdanimation_gwd-keyframes{0%{opacity:0;-webkit-animation-timing-function:linear}100%{opacity:1;-webkit-animation-timing-function:linear}}@-moz-keyframes gwd-gen-6yexgwdanimation_gwd-keyframes{0%{opacity:0;-moz-animation-timing-function:linear}100%{opacity:1;-moz-animation-timing-function:linear}}@keyframes gwd-gen-1rifgwdanimation_gwd-keyframes{0%{opacity:0;transform:translate3d(-150px, -300px, 0) rotateZ(-46deg);-webkit-transform:translate3d(-150px, -300px, 0) rotateZ(-46deg);-moz-transform:translate3d(-150px, -300px, 0) rotateZ(-46deg);animation-timing-function:linear;-webkit-animation-timing-function:linear;-moz-animation-timing-function:linear}37.5%{opacity:0;transform:translate3d(-150px, -300px, 0) rotateZ(-46deg);-webkit-transform:translate3d(-150px, -300px, 0) rotateZ(-46deg);-moz-transform:translate3d(-150px, -300px, 0) rotateZ(-46deg);animation-timing-function:ease;-webkit-animation-timing-function:ease;-moz-animation-timing-function:ease}100%{opacity:1;transform:translate3d(-80px, -300px, 0) rotateZ(0deg);-webkit-transform:translate3d(-80px, -300px, 0) rotateZ(0deg);-moz-transform:translate3d(-80px, -300px, 0) rotateZ(0deg);animation-timing-function:linear;-webkit-animation-timing-function:linear;-moz-animation-timing-function:linear}}@-webkit-keyframes gwd-gen-1rifgwdanimation_gwd-keyframes{0%{opacity:0;-webkit-transform:translate3d(-150px, -300px, 0) rotateZ(-46deg);-webkit-animation-timing-function:linear}37.5%{opacity:0;-webkit-transform:translate3d(-150px, -300px, 0) rotateZ(-46deg);-webkit-animation-timing-function:ease}100%{opacity:1;-webkit-transform:translate3d(-80px, -300px, 0) rotateZ(0deg);-webkit-animation-timing-function:linear}}@-moz-keyframes gwd-gen-1rifgwdanimation_gwd-keyframes{0%{opacity:0;-moz-transform:translate3d(-150px, -300px, 0) rotateZ(-46deg);-moz-animation-timing-function:linear}37.5%{opacity:0;-moz-transform:translate3d(-150px, -300px, 0) rotateZ(-46deg);-moz-animation-timing-function:ease}100%{opacity:1;-moz-transform:translate3d(-80px, -300px, 0) rotateZ(0deg);-moz-animation-timing-function:linear}}@keyframes gwd-gen-kjv2gwdanimation_gwd-keyframes{0%{opacity:0;transform:translate3d(-170px, -300px, 0);-webkit-transform:translate3d(-170px, -300px, 0);-moz-transform:translate3d(-170px, -300px, 0);animation-timing-function:linear;-webkit-animation-timing-function:linear;-moz-animation-timing-function:linear}58.3333%{opacity:0;transform:translate3d(-170px, -300px, 0);-webkit-transform:translate3d(-170px, -300px, 0);-moz-transform:translate3d(-170px, -300px, 0);animation-timing-function:ease;-webkit-animation-timing-function:ease;-moz-animation-timing-function:ease}100%{opacity:1;transform:translate3d(-80px, -300px, 0);-webkit-transform:translate3d(-80px, -300px, 0);-moz-transform:translate3d(-80px, -300px, 0);animation-timing-function:linear;-webkit-animation-timing-function:linear;-moz-animation-timing-function:linear}}@-webkit-keyframes gwd-gen-kjv2gwdanimation_gwd-keyframes{0%{opacity:0;-webkit-transform:translate3d(-170px, -300px, 0);-webkit-animation-timing-function:linear}58.3333%{opacity:0;-webkit-transform:translate3d(-170px, -300px, 0);-webkit-animation-timing-function:ease}100%{opacity:1;-webkit-transform:translate3d(-80px, -300px, 0);-webkit-animation-timing-function:linear}}@-moz-keyframes gwd-gen-kjv2gwdanimation_gwd-keyframes{0%{opacity:0;-moz-transform:translate3d(-170px, -300px, 0);-moz-animation-timing-function:linear}58.3333%{opacity:0;-moz-transform:translate3d(-170px, -300px, 0);-moz-animation-timing-function:ease}100%{opacity:1;-moz-transform:translate3d(-80px, -300px, 0);-moz-animation-timing-function:linear}}@keyframes gwd-gen-xwkegwdanimation_gwd-keyframes{0%{opacity:0;transform:translate3d(-80px, -230px, 0);-webkit-transform:translate3d(-80px, -230px, 0);-moz-transform:translate3d(-80px, -230px, 0);animation-timing-function:linear;-webkit-animation-timing-function:linear;-moz-animation-timing-function:linear}54.5455%{opacity:0;transform:translate3d(-80px, -230px, 0);-webkit-transform:translate3d(-80px, -230px, 0);-moz-transform:translate3d(-80px, -230px, 0);animation-timing-function:ease;-webkit-animation-timing-function:ease;-moz-animation-timing-function:ease}100%{opacity:1;transform:translate3d(-80px, -300px, 0);-webkit-transform:translate3d(-80px, -300px, 0);-moz-transform:translate3d(-80px, -300px, 0);animation-timing-function:linear;-webkit-animation-timing-function:linear;-moz-animation-timing-function:linear}}@-webkit-keyframes gwd-gen-xwkegwdanimation_gwd-keyframes{0%{opacity:0;-webkit-transform:translate3d(-80px, -230px, 0);-webkit-animation-timing-function:linear}54.5455%{opacity:0;-webkit-transform:translate3d(-80px, -230px, 0);-webkit-animation-timing-function:ease}100%{opacity:1;-webkit-transform:translate3d(-80px, -300px, 0);-webkit-animation-timing-function:linear}}@-moz-keyframes gwd-gen-xwkegwdanimation_gwd-keyframes{0%{opacity:0;-moz-transform:translate3d(-80px, -230px, 0);-moz-animation-timing-function:linear}54.5455%{opacity:0;-moz-transform:translate3d(-80px, -230px, 0);-moz-animation-timing-function:ease}100%{opacity:1;-moz-transform:translate3d(-80px, -300px, 0);-moz-animation-timing-function:linear}}@keyframes gwd-gen-6yexgwdanimation_gwd-keyframes_label-1{0%{opacity:0;animation-timing-function:linear;-webkit-animation-timing-function:linear;-moz-animation-timing-function:linear}100%{opacity:1;animation-timing-function:linear;-webkit-animation-timing-function:linear;-moz-animation-timing-function:linear}}@-webkit-keyframes gwd-gen-6yexgwdanimation_gwd-keyframes_label-1{0%{opacity:0;-webkit-animation-timing-function:linear}100%{opacity:1;-webkit-animation-timing-function:linear}}@-moz-keyframes gwd-gen-6yexgwdanimation_gwd-keyframes_label-1{0%{opacity:0;-moz-animation-timing-function:linear}100%{opacity:1;-moz-animation-timing-function:linear}}@keyframes gwd-gen-1rifgwdanimation_gwd-keyframes_label-1{0%{opacity:0;transform:translate3d(-150px, -300px, 0) rotateZ(-46deg);-webkit-transform:translate3d(-150px, -300px, 0) rotateZ(-46deg);-moz-transform:translate3d(-150px, -300px, 0) rotateZ(-46deg);animation-timing-function:linear;-webkit-animation-timing-function:linear;-moz-animation-timing-function:linear}37.5%{opacity:0;transform:translate3d(-150px, -300px, 0) rotateZ(-46deg);-webkit-transform:translate3d(-150px, -300px, 0) rotateZ(-46deg);-moz-transform:translate3d(-150px, -300px, 0) rotateZ(-46deg);animation-timing-function:ease;-webkit-animation-timing-function:ease;-moz-animation-timing-function:ease}100%{opacity:1;transform:translate3d(-80px, -300px, 0) rotateZ(0deg);-webkit-transform:translate3d(-80px, -300px, 0) rotateZ(0deg);-moz-transform:translate3d(-80px, -300px, 0) rotateZ(0deg);animation-timing-function:linear;-webkit-animation-timing-function:linear;-moz-animation-timing-function:linear}}@-webkit-keyframes gwd-gen-1rifgwdanimation_gwd-keyframes_label-1{0%{opacity:0;-webkit-transform:translate3d(-150px, -300px, 0) rotateZ(-46deg);-webkit-animation-timing-function:linear}37.5%{opacity:0;-webkit-transform:translate3d(-150px, -300px, 0) rotateZ(-46deg);-webkit-animation-timing-function:ease}100%{opacity:1;-webkit-transform:translate3d(-80px, -300px, 0) rotateZ(0deg);-webkit-animation-timing-function:linear}}@-moz-keyframes gwd-gen-1rifgwdanimation_gwd-keyframes_label-1{0%{opacity:0;-moz-transform:translate3d(-150px, -300px, 0) rotateZ(-46deg);-moz-animation-timing-function:linear}37.5%{opacity:0;-moz-transform:translate3d(-150px, -300px, 0) rotateZ(-46deg);-moz-animation-timing-function:ease}100%{opacity:1;-moz-transform:translate3d(-80px, -300px, 0) rotateZ(0deg);-moz-animation-timing-function:linear}}@keyframes gwd-gen-xwkegwdanimation_gwd-keyframes_label-1{0%{opacity:0;transform:translate3d(-80px, -230px, 0);-webkit-transform:translate3d(-80px, -230px, 0);-moz-transform:translate3d(-80px, -230px, 0);animation-timing-function:linear;-webkit-animation-timing-function:linear;-moz-animation-timing-function:linear}54.5455%{opacity:0;transform:translate3d(-80px, -230px, 0);-webkit-transform:translate3d(-80px, -230px, 0);-moz-transform:translate3d(-80px, -230px, 0);animation-timing-function:ease;-webkit-animation-timing-function:ease;-moz-animation-timing-function:ease}100%{opacity:1;transform:translate3d(-80px, -300px, 0);-webkit-transform:translate3d(-80px, -300px, 0);-moz-transform:translate3d(-80px, -300px, 0);animation-timing-function:linear;-webkit-animation-timing-function:linear;-moz-animation-timing-function:linear}}@-webkit-keyframes gwd-gen-xwkegwdanimation_gwd-keyframes_label-1{0%{opacity:0;-webkit-transform:translate3d(-80px, -230px, 0);-webkit-animation-timing-function:linear}54.5455%{opacity:0;-webkit-transform:translate3d(-80px, -230px, 0);-webkit-animation-timing-function:ease}100%{opacity:1;-webkit-transform:translate3d(-80px, -300px, 0);-webkit-animation-timing-function:linear}}@-moz-keyframes gwd-gen-xwkegwdanimation_gwd-keyframes_label-1{0%{opacity:0;-moz-transform:translate3d(-80px, -230px, 0);-moz-animation-timing-function:linear}54.5455%{opacity:0;-moz-transform:translate3d(-80px, -230px, 0);-moz-animation-timing-function:ease}100%{opacity:1;-moz-transform:translate3d(-80px, -300px, 0);-moz-animation-timing-function:linear}}@keyframes gwd-gen-kjv2gwdanimation_gwd-keyframes_label-1{0%{opacity:0;transform:translate3d(-170px, -300px, 0);-webkit-transform:translate3d(-170px, -300px, 0);-moz-transform:translate3d(-170px, -300px, 0);animation-timing-function:linear;-webkit-animation-timing-function:linear;-moz-animation-timing-function:linear}58.3333%{opacity:0;transform:translate3d(-170px, -300px, 0);-webkit-transform:translate3d(-170px, -300px, 0);-moz-transform:translate3d(-170px, -300px, 0);animation-timing-function:ease;-webkit-animation-timing-function:ease;-moz-animation-timing-function:ease}100%{opacity:1;transform:translate3d(-80px, -300px, 0);-webkit-transform:translate3d(-80px, -300px, 0);-moz-transform:translate3d(-80px, -300px, 0);animation-timing-function:linear;-webkit-animation-timing-function:linear;-moz-animation-timing-function:linear}}@-webkit-keyframes gwd-gen-kjv2gwdanimation_gwd-keyframes_label-1{0%{opacity:0;-webkit-transform:translate3d(-170px, -300px, 0);-webkit-animation-timing-function:linear}58.3333%{opacity:0;-webkit-transform:translate3d(-170px, -300px, 0);-webkit-animation-timing-function:ease}100%{opacity:1;-webkit-transform:translate3d(-80px, -300px, 0);-webkit-animation-timing-function:linear}}@-moz-keyframes gwd-gen-kjv2gwdanimation_gwd-keyframes_label-1{0%{opacity:0;-moz-transform:translate3d(-170px, -300px, 0);-moz-animation-timing-function:linear}58.3333%{opacity:0;-moz-transform:translate3d(-170px, -300px, 0);-moz-animation-timing-function:ease}100%{opacity:1;-moz-transform:translate3d(-80px, -300px, 0);-moz-animation-timing-function:linear}}@keyframes gwd-empty-animation{0%{opacity:0.001}100%{opacity:0}}@-webkit-keyframes gwd-empty-animation{0%{opacity:0.001}100%{opacity:0}}@-moz-keyframes gwd-empty-animation{0%{opacity:0.001}100%{opacity:0}}@keyframes gwd-empty-animation_label-1{0%{opacity:0.001}100%{opacity:0}}@-webkit-keyframes gwd-empty-animation_label-1{0%{opacity:0.001}100%{opacity:0}}@-moz-keyframes gwd-empty-animation_label-1{0%{opacity:0.001}100%{opacity:0}}</style></body></html>
